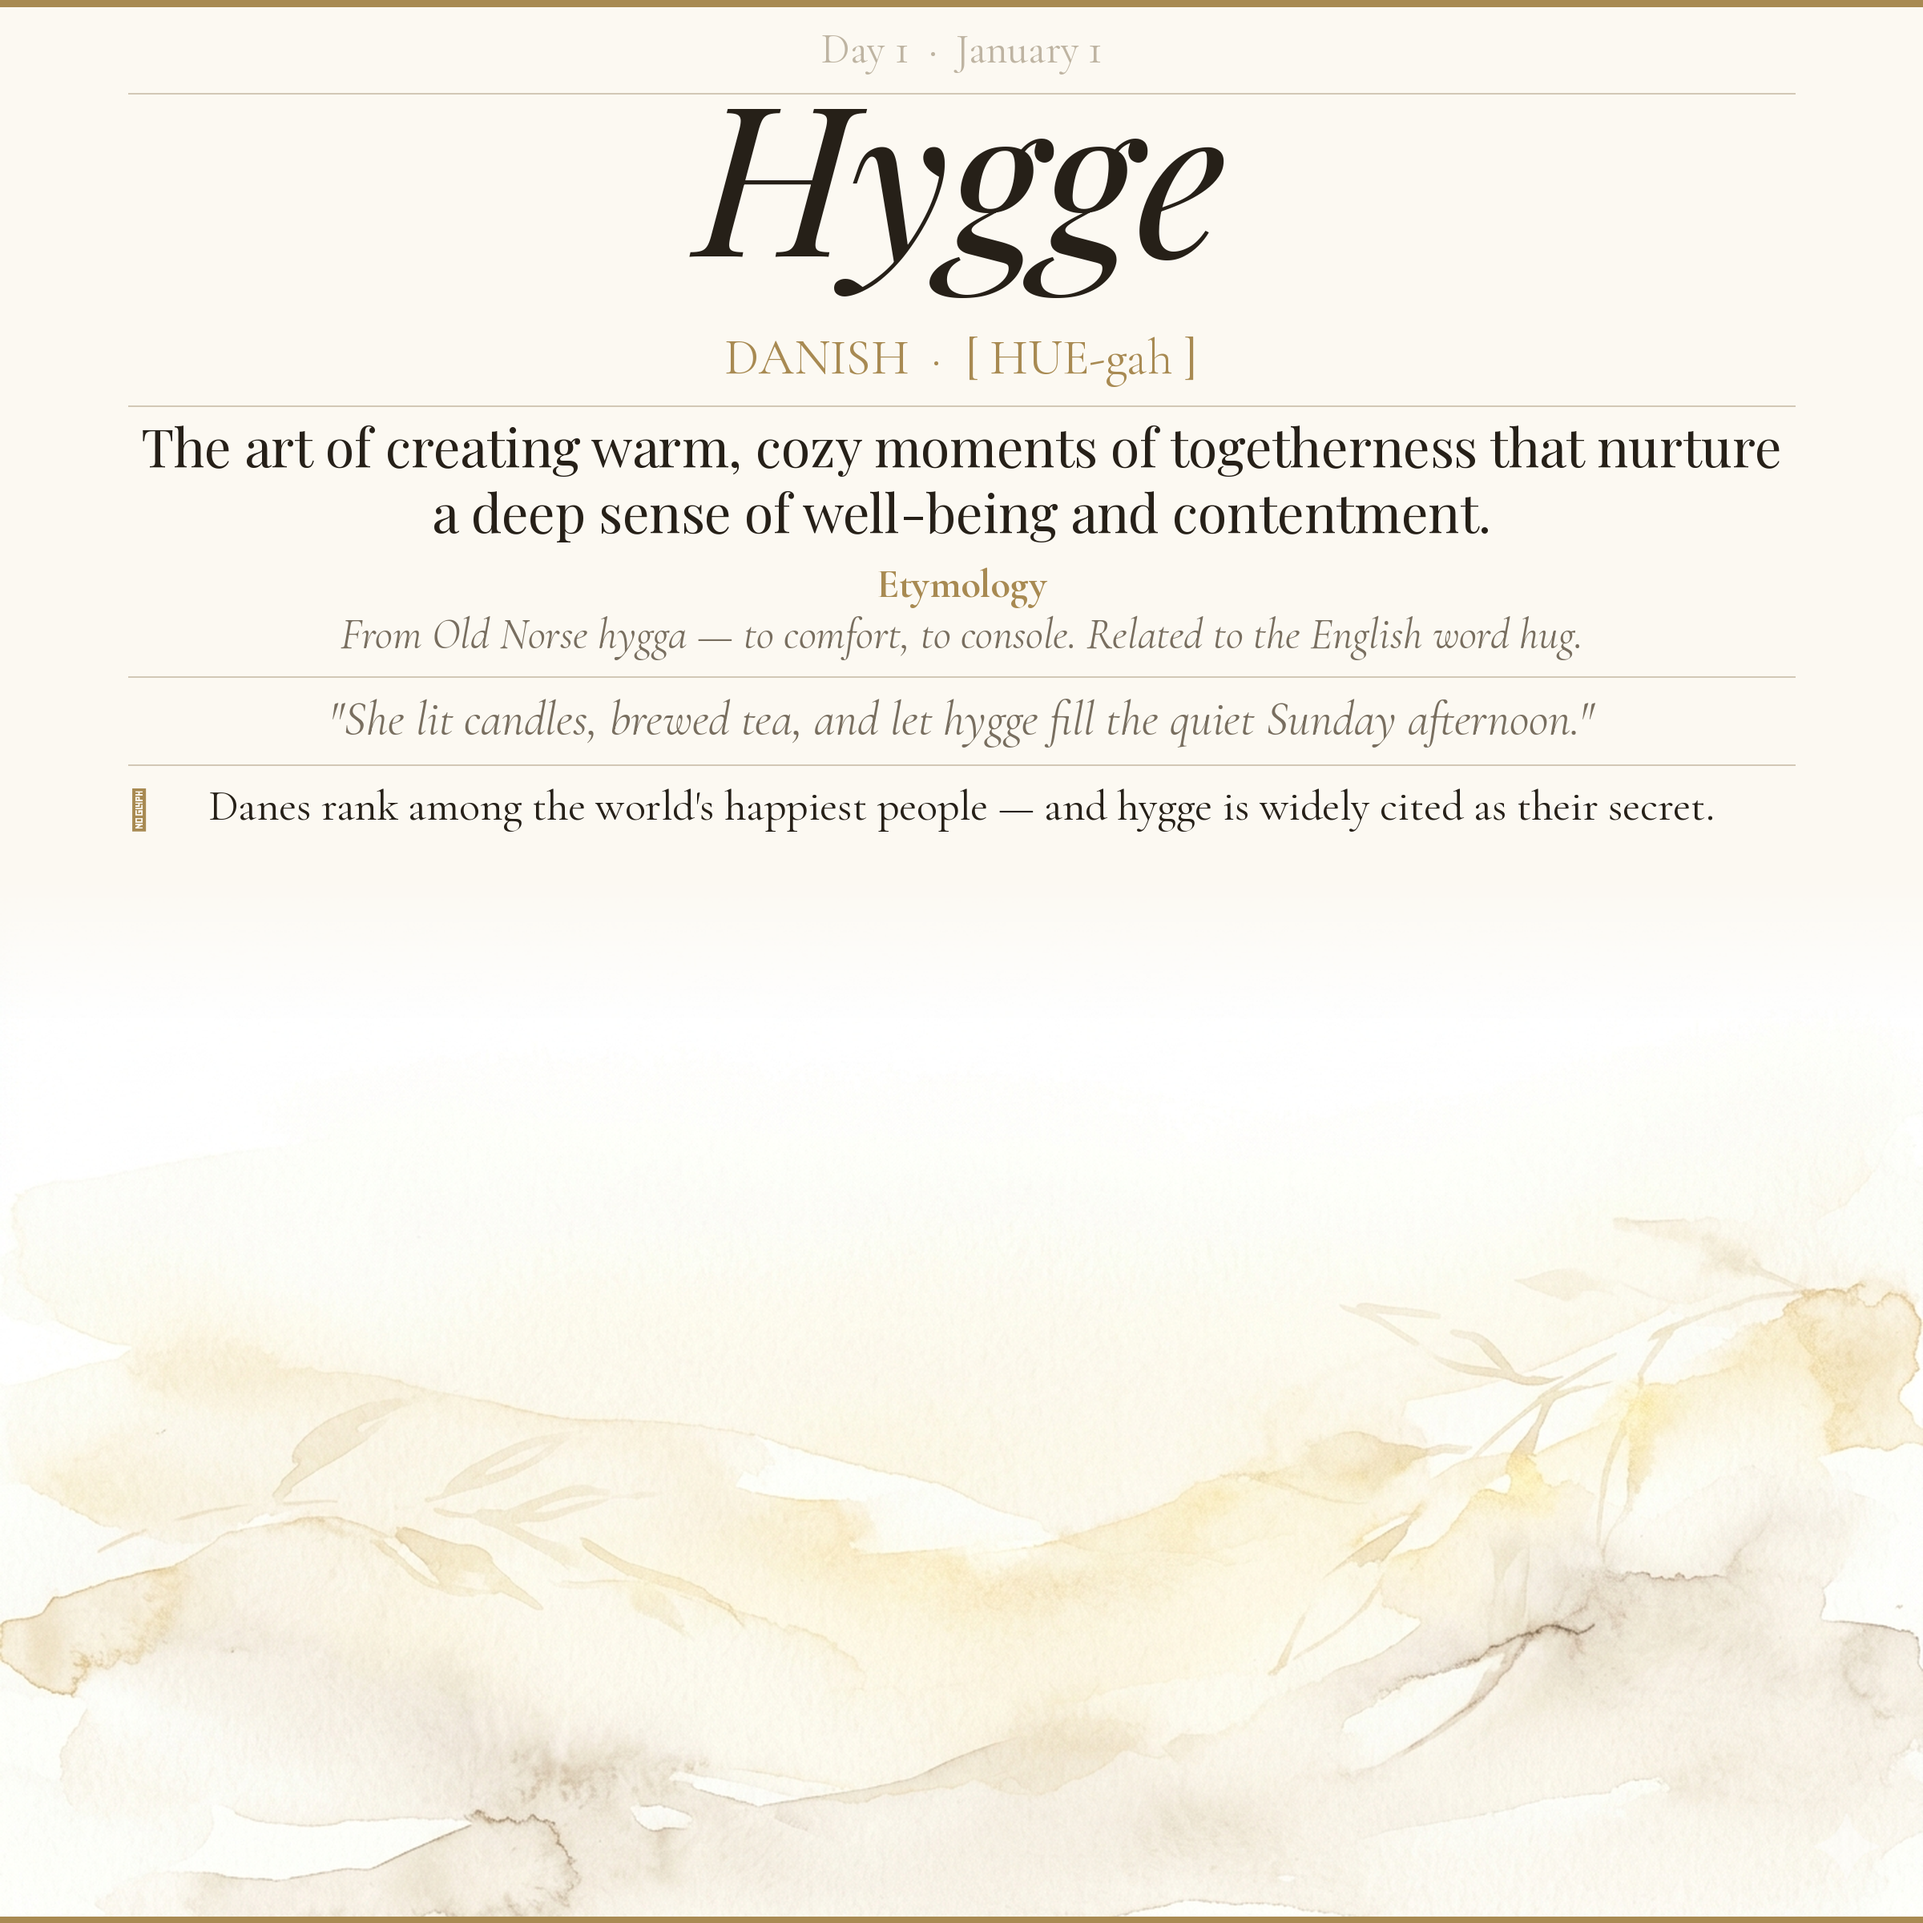
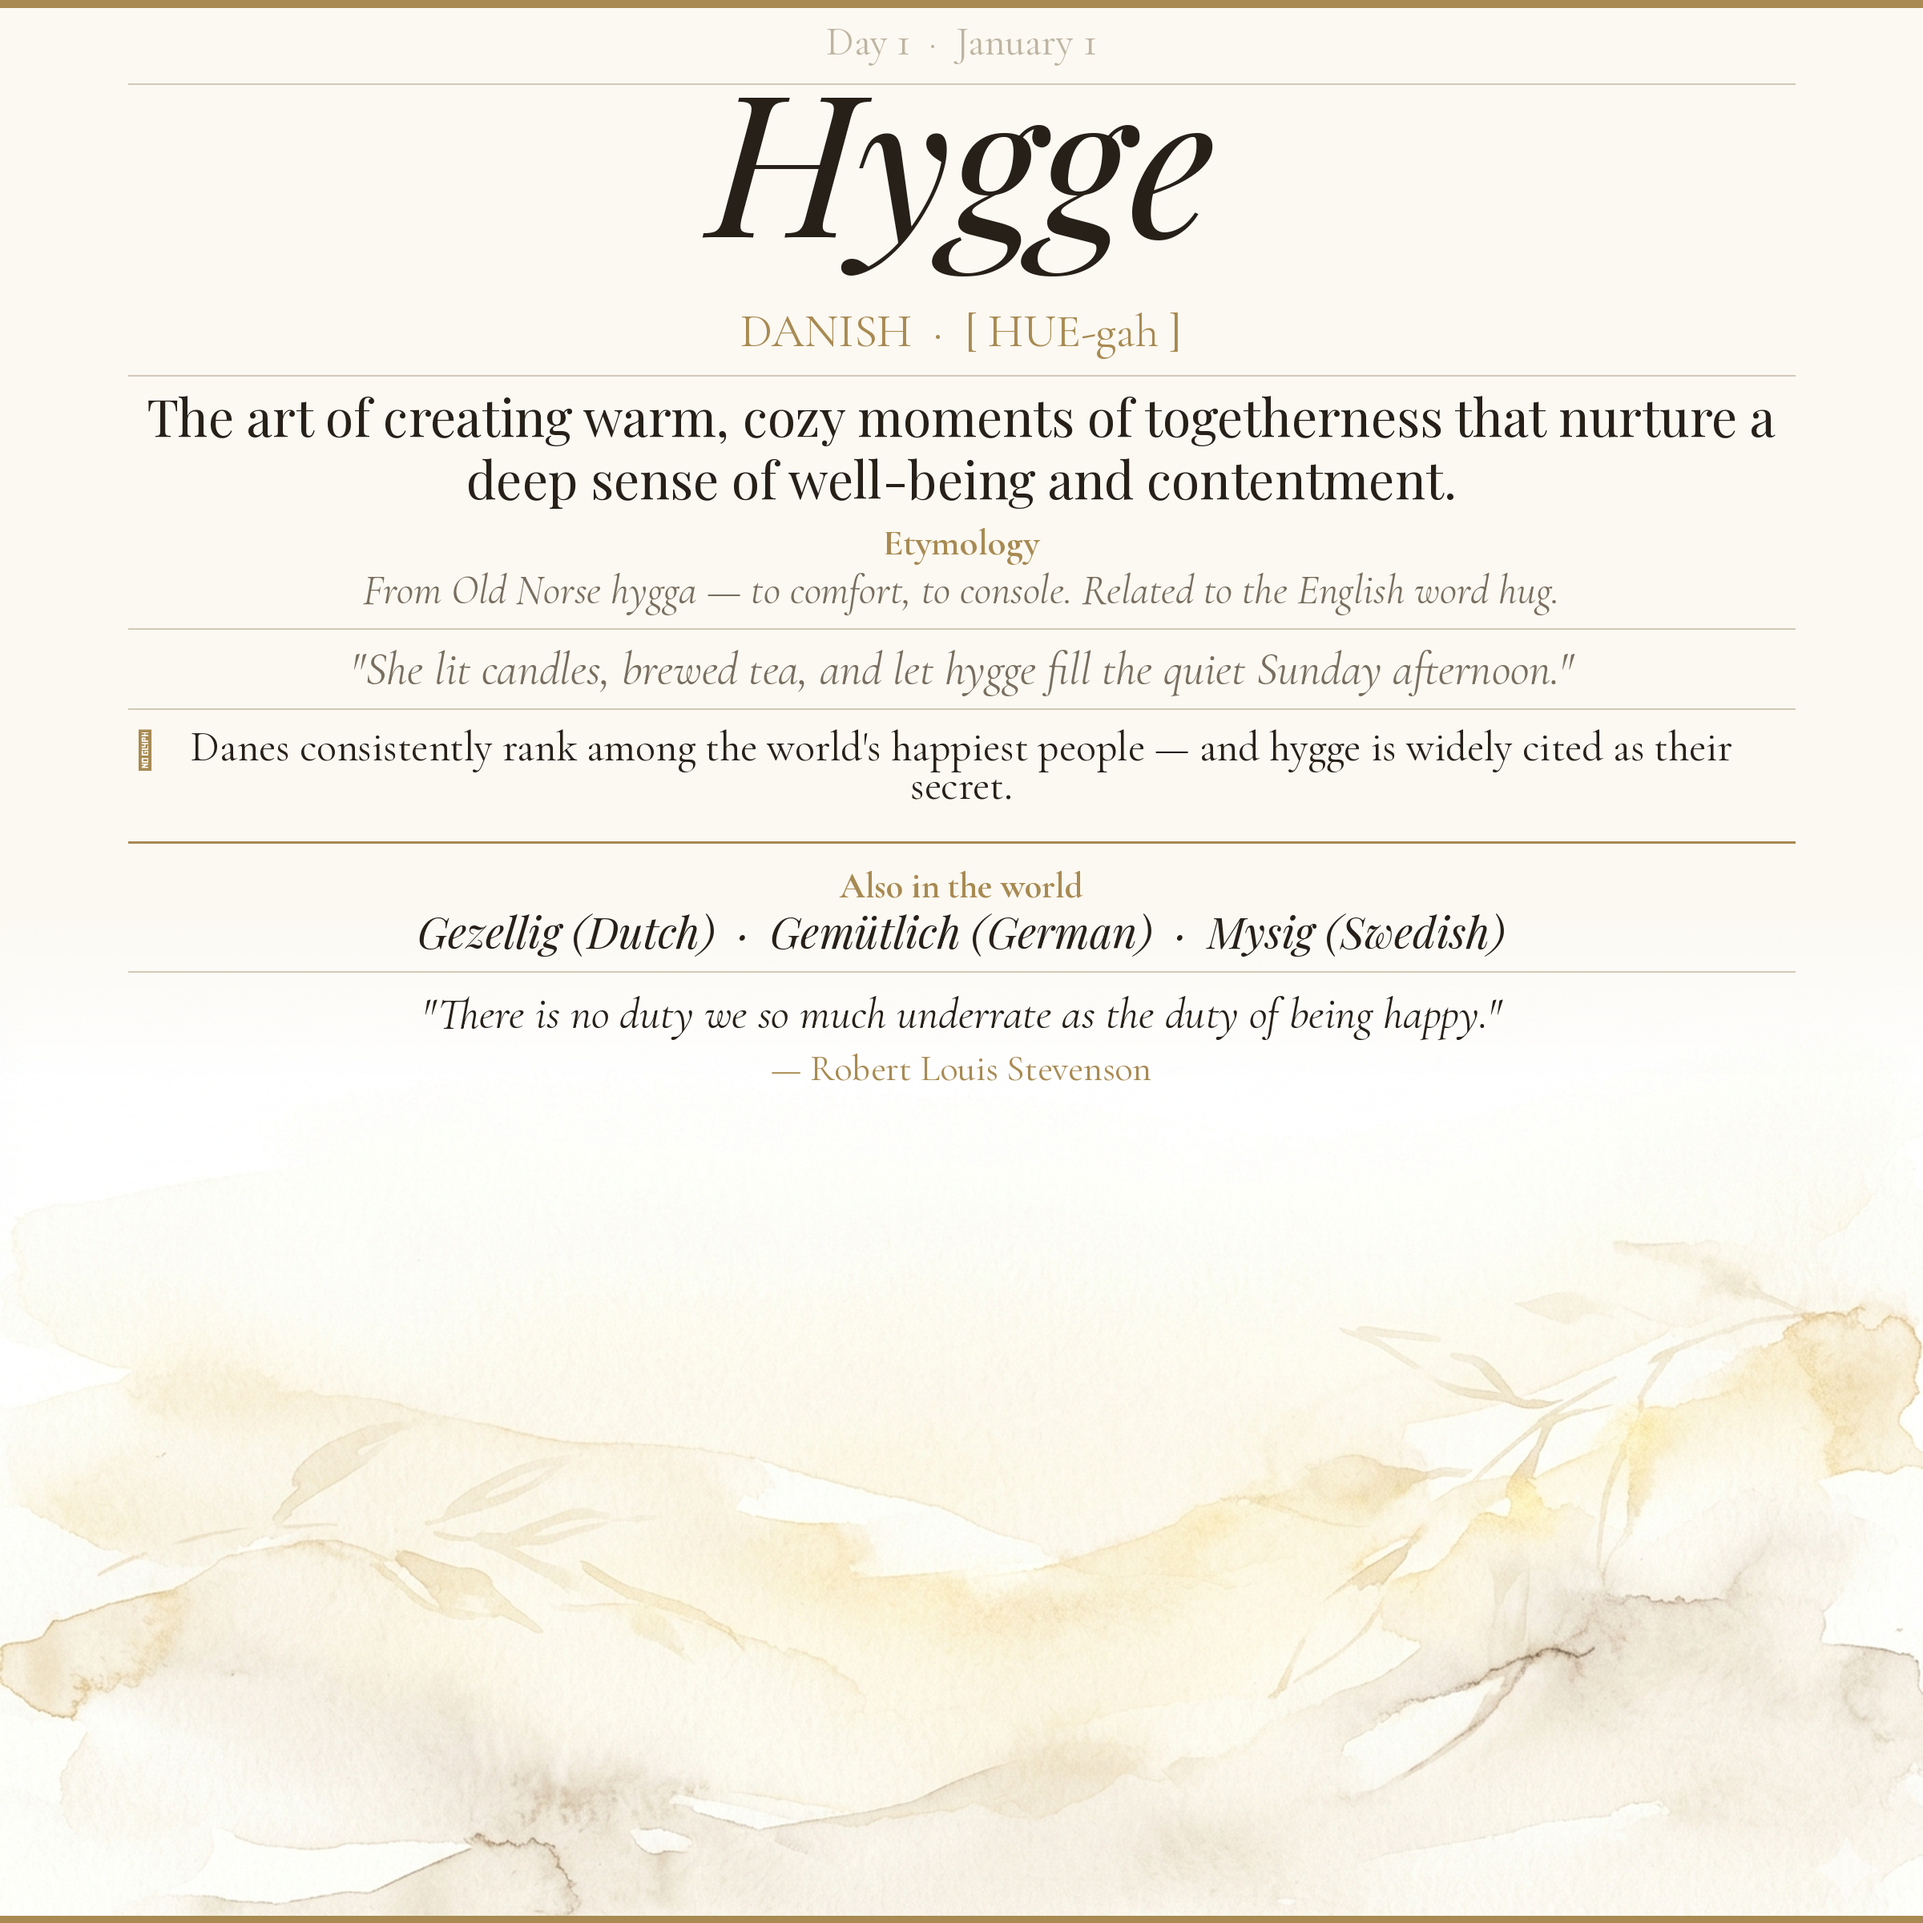
Add watercolor overlay + related words + quote sections to word book
- Watercolor background placed at H/2-80 with 220px cream fade
- New "Also in the world" section for related words across languages
- Famous quote + author printed over the watercolor area
- Gold 2px rule separates cream zone from watercolor zone
- Demo pages: Hygge (Jan 1) and Saudade (Jan 2)

https://claude.ai/code/session_018BNd1Ba7eFukj4va47McZo

diff --git a/make_word_book.py b/make_word_book.py
@@ -52,93 +52,111 @@ def ornament(draw, y, font_size=52):
 
 def make_page(day_num, date_str, word, language, pronunciation,
               definition, etymology, example, cultural_note,
+              related, quote, quote_author,
               out_name="word_demo.png"):
 
     # ── Canvas ────────────────────────────────────────────────────────────────
-    img  = Image.new("RGB", (W, H), CREAM)
+    img = Image.new("RGB", (W, H), CREAM)
 
-    # ── Watercolor en bas ─────────────────────────────────────────────────────
-    bg    = Image.open(BG_PATH).convert("RGB")
-    scale = W / bg.width
-    bh    = round(bg.height * scale)
-    bg    = bg.resize((W, bh), Image.LANCZOS)
+    # ── Watercolor — remonte haut, texte écrit par-dessus ────────────────────
+    bg = Image.open(BG_PATH).convert("RGB")
+    # Étirer pour couvrir la moitié inférieure de la page
+    bg_start = H // 2 - 80
+    bg_zone  = H - bg_start
+    scale_h  = bg_zone / bg.height
+    scale_w  = W / bg.width
+    scale    = max(scale_h, scale_w)
+    nw, nh   = round(bg.width*scale), round(bg.height*scale)
+    bg = bg.resize((nw, nh), Image.LANCZOS)
+    bg = bg.crop(((nw-W)//2, 0, (nw-W)//2+W, bg_zone))
 
-    # Fondu cream → watercolor
-    arr = np.array(bg)
-    fade = 180  # pixels de fondu
-    for i in range(fade):
+    # Fondu progressif cream → watercolor sur 220px
+    arr  = np.array(bg, float)
+    fade = 220
+    for i in range(min(fade, bg_zone)):
         t = i / fade
-        arr[i] = (np.array(CREAM)*(1-t) + arr[i]*t).astype("uint8")
-    bg = Image.fromarray(arr)
-    img.paste(bg, (0, H - bh))
+        arr[i] = np.array(CREAM)*(1-t) + arr[i]*t
+    img.paste(Image.fromarray(arr.astype("uint8")), (0, bg_start))
 
     draw = ImageDraw.Draw(img)
 
-    # ── Marge dorée supérieure ────────────────────────────────────────────────
-    draw.rectangle([0, 0, W, 8], fill=GOLD)
+    # ── Bandes dorées ─────────────────────────────────────────────────────────
+    draw.rectangle([0, 0, W, 9], fill=GOLD)
+    draw.rectangle([0, H-9, W, H], fill=GOLD)
 
     # ── Date & numéro ─────────────────────────────────────────────────────────
-    fn_date = ImageFont.truetype(FC_REG, 52)
-    draw.text((W//2, 44), f"Day {day_num}  ·  {date_str}",
+    fn_date = ImageFont.truetype(FC_REG, 50)
+    draw.text((W//2, 36), f"Day {day_num}  ·  {date_str}",
               fill=LGRAY, font=fn_date, anchor="mt")
+    rule(draw, 104)
 
-    rule(draw, 116, color=RULE)
-
-    # ── LE MOT — grande italique Playfair ─────────────────────────────────────
-    fn_word = ImageFont.truetype(FP_ITAL, 260)
-    draw.text((W//2, 136), word, fill=DARK, font=fn_word, anchor="mt")
+    # ── LE MOT ────────────────────────────────────────────────────────────────
+    fn_word = ImageFont.truetype(FP_ITAL, 248)
+    draw.text((W//2, 122), word, fill=DARK, font=fn_word, anchor="mt")
 
     # ── Langue + prononciation ────────────────────────────────────────────────
-    fn_lang = ImageFont.truetype(FC_REG, 62)
-    lang_y  = 420
-    draw.text((W//2, lang_y),
-              f"{language.upper()}  ·  {pronunciation}",
+    fn_lang = ImageFont.truetype(FC_REG, 58)
+    draw.text((W//2, 390), f"{language.upper()}  ·  {pronunciation}",
               fill=GOLD, font=fn_lang, anchor="mt")
-
-    rule(draw, lang_y + 86, color=RULE)
-    y = lang_y + 110
+    rule(draw, 468)
+    y = 494
 
     # ── Définition ────────────────────────────────────────────────────────────
-    fn_def = ImageFont.truetype(FP_REG, 66)
-    for line in wrap(definition, fn_def, draw, W - 340):
+    fn_def = ImageFont.truetype(FP_REG, 64)
+    for line in wrap(definition, fn_def, draw, W-340):
         draw.text((W//2, y), line, fill=DARK, font=fn_def, anchor="mt")
-        y += 82
-    y += 14
+        y += 78
+    y += 8
 
     # ── Étymologie ────────────────────────────────────────────────────────────
-    fn_etym_lbl = ImageFont.truetype(FC_BOLD, 50)
-    fn_etym     = ImageFont.truetype(FC_ITAL, 54)
+    fn_etym_lbl = ImageFont.truetype(FC_BOLD, 46)
+    fn_etym     = ImageFont.truetype(FC_ITAL, 52)
     draw.text((W//2, y), "Etymology", fill=GOLD, font=fn_etym_lbl, anchor="mt")
-    y += 60
-    for line in wrap(etymology, fn_etym, draw, W - 340):
+    y += 56
+    for line in wrap(etymology, fn_etym, draw, W-340):
         draw.text((W//2, y), line, fill=GRAY, font=fn_etym, anchor="mt")
-        y += 66
-    y += 10
-
-    rule(draw, y, color=RULE)
-    y += 28
+        y += 62
+    y += 8
+    rule(draw, y); y += 26
 
     # ── Phrase exemple ────────────────────────────────────────────────────────
-    fn_ex = ImageFont.truetype(FC_ITAL, 60)
-    for line in wrap(f'"{example}"', fn_ex, draw, W - 360):
+    fn_ex = ImageFont.truetype(FC_ITAL, 58)
+    for line in wrap(f'"{example}"', fn_ex, draw, W-360):
         draw.text((W//2, y), line, fill=GRAY, font=fn_ex, anchor="mt")
-        y += 72
-    y += 10
+        y += 68
+    y += 6
+    rule(draw, y); y += 26
 
-    rule(draw, y, color=RULE)
-    y += 30
-
-    # ── Note culturelle ───────────────────────────────────────────────────────
-    fn_note = ImageFont.truetype(FC_REG, 54)
-    draw.text((160, y), "✦", fill=GOLD,
-              font=ImageFont.truetype(FC_REG, 54), anchor="lt")
-    note_lines = wrap(cultural_note, fn_note, draw, W - 400)
-    for line in note_lines:
+    # ── Note culturelle ── (sur fond cream encore)
+    fn_note = ImageFont.truetype(FC_REG, 52)
+    draw.text((168, y), "✦", fill=GOLD, font=fn_note, anchor="lt")
+    for line in wrap(cultural_note, fn_note, draw, W-400):
         draw.text((W//2, y), line, fill=DARK, font=fn_note, anchor="mt")
-        y += 66
+        y += 62
+    y += 16
 
-    # ── Marge dorée inférieure ────────────────────────────────────────────────
-    draw.rectangle([0, H-8, W, H], fill=GOLD)
+    # ═══ À partir d'ici : texte sur l'aquarelle ════════════════════════════
+    rule(draw, y, color=GOLD, w=2); y += 36
+
+    # ── Mots apparentés ───────────────────────────────────────────────────────
+    fn_rel_lbl = ImageFont.truetype(FC_BOLD, 44)
+    fn_rel     = ImageFont.truetype(FP_ITAL, 54)
+    draw.text((W//2, y), "Also in the world", fill=GOLD,
+              font=fn_rel_lbl, anchor="mt")
+    y += 54
+    draw.text((W//2, y), related, fill=DARK, font=fn_rel, anchor="mt")
+    y += 72
+
+    rule(draw, y); y += 30
+
+    # ── Citation ──────────────────────────────────────────────────────────────
+    fn_q  = ImageFont.truetype(FC_ITAL, 56)
+    fn_qa = ImageFont.truetype(FC_REG,  46)
+    for line in wrap(f'"{quote}"', fn_q, draw, W-380):
+        draw.text((W//2, y), line, fill=DARK, font=fn_q, anchor="mt")
+        y += 68
+    y += 4
+    draw.text((W//2, y), f"— {quote_author}", fill=GOLD, font=fn_qa, anchor="mt")
 
     img.save(os.path.join(OUT_DIR, out_name))
     print(f"✓ {out_name}")
@@ -155,7 +173,10 @@ make_page(
     definition   = "The art of creating warm, cozy moments of togetherness that nurture a deep sense of well-being and contentment.",
     etymology    = "From Old Norse hygga — to comfort, to console. Related to the English word hug.",
     example      = "She lit candles, brewed tea, and let hygge fill the quiet Sunday afternoon.",
-    cultural_note= "Danes rank among the world's happiest people — and hygge is widely cited as their secret.",
+    cultural_note= "Danes consistently rank among the world's happiest people — and hygge is widely cited as their secret.",
+    related      = "Gezellig (Dutch)  ·  Gemütlich (German)  ·  Mysig (Swedish)",
+    quote        = "There is no duty we so much underrate as the duty of being happy.",
+    quote_author = "Robert Louis Stevenson",
     out_name     = "word_jan01_hygge.png"
 )
 
@@ -166,8 +187,11 @@ make_page(
     language     = "Portuguese",
     pronunciation= "[ saw-DAH-deh ]",
     definition   = "A deep, bittersweet longing for someone or something beloved that is absent, lost, or may never have truly existed.",
-    etymology    = "From Latin solitatem — solitude. Evolved through centuries of Portuguese seafaring and exile.",
+    etymology    = "From Latin solitatem — solitude. Shaped by centuries of Portuguese seafaring and exile.",
     example      = "Listening to old records alone, he was quietly overcome by saudade.",
-    cultural_note= "Saudade is considered the emotional soul of Portuguese and Brazilian culture, at the heart of fado music.",
+    cultural_note= "Saudade is the emotional soul of Portugal and Brazil — the very heart of fado music.",
+    related      = "Hiraeth (Welsh)  ·  Toska (Russian)  ·  Sehnsucht (German)",
+    quote        = "The bitterest tears shed over graves are for words left unsaid and deeds left undone.",
+    quote_author = "Harriet Beecher Stowe",
     out_name     = "word_jan02_saudade.png"
 )
